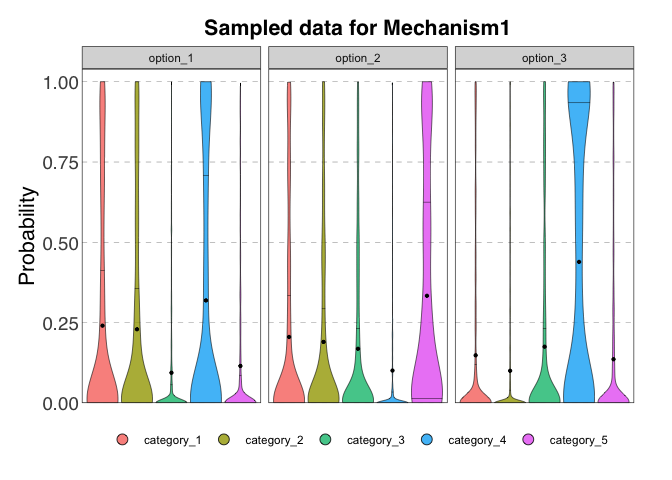
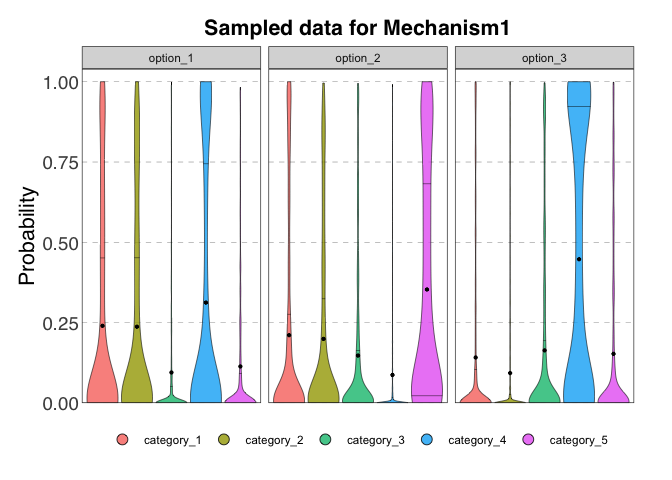
Update readme with truth and groups

diff --git a/README.md b/README.md
@@ -123,16 +123,39 @@ cont_get_data(my_elic_cont, round = 1)
 Plot raw data for variable 2 in round 1:
 
 ``` r
-plot(my_elic_cont,, round = 1, var = "var2")
+plot(my_elic_cont, round = 1, var = "var2")
 #> `height` was translated to `width`.
 ```
 
 <img src="man/figures/README-plot-raw-data-1.png" width="100%" />
 
+When the elicitation process is part of a workshop and is used for
+demonstration, it can be useful to show a truth argumenton the plot.
+This argument can be added as a list of estimates.
+
+``` r
+plot(my_elic_cont, round = 1, var = "var2",
+     truth = list(min = 10, max = 20, best = 15))
+#> `height` was translated to `width`.
+```
+
+<img src="man/figures/README-plot-truth-1.png" width="100%" />
+
+Estimates can also be plotted grouped across experts:
+
+``` r
+plot(my_elic_cont, round = 1, var = "var2",
+     truth = list(min = 10, max = 20, best = 15),
+     group = TRUE)
+#> `height` was translated to `width`.
+```
+
+<img src="man/figures/README-plot-group-1.png" width="100%" />
+
 Data can be sampled from the elicitation object:
 
 ``` r
-samp_cont <- cont_sample_data(my_elic_cont,, round = 2)
+samp_cont <- cont_sample_data(my_elic_cont, round = 2)
 #> ✔ Rescaled min and max for variable "var3".
 #> ✔ Data for "var1", "var2", and "var3" sampled successfully using the "basic" method.
 
@@ -140,16 +163,16 @@ samp_cont
 #> # A tibble: 18,000 × 3
 #>    id      var   value
 #>    <chr>   <chr> <dbl>
-#>  1 5ac97e0 var1     -4
+#>  1 5ac97e0 var1     -2
 #>  2 5ac97e0 var1     -2
-#>  3 5ac97e0 var1     -2
+#>  3 5ac97e0 var1      0
 #>  4 5ac97e0 var1      1
-#>  5 5ac97e0 var1     -2
-#>  6 5ac97e0 var1      1
+#>  5 5ac97e0 var1      1
+#>  6 5ac97e0 var1      0
 #>  7 5ac97e0 var1     -2
-#>  8 5ac97e0 var1     -2
-#>  9 5ac97e0 var1     -2
-#> 10 5ac97e0 var1     -4
+#>  8 5ac97e0 var1      1
+#>  9 5ac97e0 var1      1
+#> 10 5ac97e0 var1      1
 #> # ℹ 17,990 more rows
 ```
 
@@ -160,9 +183,9 @@ summary(samp_cont)
 #> # A tibble: 3 × 7
 #>   Var      Min     Q1 Median   Mean     Q3    Max
 #>   <chr>  <dbl>  <dbl>  <dbl>  <dbl>  <dbl>  <dbl>
-#> 1 var1  -4     -2     -2     -1.02   1      1    
-#> 2 var2  11.0   14.4   16.3   16.3   18.4   22.7  
-#> 3 var3   0.488  0.671  0.715  0.715  0.761  0.879
+#> 1 var1  -4     -2     -2     -1.04   1      1    
+#> 2 var2  11.0   14.4   16.3   16.3   18.3   22.6  
+#> 3 var3   0.452  0.671  0.716  0.715  0.762  0.872
 ```
 
 And plotted as violin plots:
@@ -180,6 +203,15 @@ plot(samp_cont, var = "var3", type = "density")
 ```
 
 <img src="man/figures/README-sample-plot-density-1.png" alt="Density plot of the sampled data for variable 3." width="100%" />
+
+And can be grouped across experts:
+
+``` r
+plot(samp_cont, var = "var3", type = "density",
+     group = TRUE)
+```
+
+<img src="man/figures/README-sample-plot-density-group-1.png" alt="Density plot of the sampled data for variable 3, grouped by experts." width="100%" />
 
 ### Elicitation of categorical variables
 
@@ -279,16 +311,16 @@ samp_cat
 #> # A tibble: 2,400 × 7
 #>    id      option   category_1 category_2 category_3 category_4 category_5
 #>    <chr>   <chr>         <dbl>      <dbl>      <dbl>      <dbl>      <dbl>
-#>  1 5ac97e0 option_1   1.00e-16          0    1.000     1.67e-36   1.64e- 4
-#>  2 5ac97e0 option_1   3.89e- 4          0    1.000     1.36e-24   5.03e-21
-#>  3 5ac97e0 option_1   2.16e- 3          0    0.998     4.24e-10   6.27e- 6
-#>  4 5ac97e0 option_1   1.23e-17          0    1         3.21e-26   4.27e-24
-#>  5 5ac97e0 option_1   1.94e- 3          0    0.979     4.63e-34   1.94e- 2
-#>  6 5ac97e0 option_1   9.99e- 1          0    0.00134   3.06e-20   1.54e-13
-#>  7 5ac97e0 option_1   9.35e- 1          0    0.0649    8.00e- 8   9.47e-12
-#>  8 5ac97e0 option_1   2.99e- 1          0    0.697     3.38e- 3   5.69e-14
-#>  9 5ac97e0 option_1   6.13e- 6          0    1.000     2.56e-16   1.07e- 4
-#> 10 5ac97e0 option_1   2.97e-10          0    0.990     8.48e-27   1.04e- 2
+#>  1 5ac97e0 option_1   1.34e-12          0     1.000    1.32e-18   1.54e-12
+#>  2 5ac97e0 option_1   3.88e- 1          0     0.612    1.89e- 9   2.98e- 9
+#>  3 5ac97e0 option_1   3.53e- 8          0     1.000    1.41e-43   2.56e-18
+#>  4 5ac97e0 option_1   5.66e- 4          0     0.999    5.26e-11   7.76e-13
+#>  5 5ac97e0 option_1   7.82e-27          0     1.000    1.51e-32   1.62e- 5
+#>  6 5ac97e0 option_1   1.13e- 3          0     0.999    1.89e-16   3.19e- 4
+#>  7 5ac97e0 option_1   1.24e- 3          0     0.999    1.43e-12   3.33e- 8
+#>  8 5ac97e0 option_1   9.42e- 1          0     0.0311   2.69e- 2   3.15e- 4
+#>  9 5ac97e0 option_1   3.77e- 2          0     0.962    5.16e- 4   6.58e- 9
+#> 10 5ac97e0 option_1   1.77e-15          0     0.999    9.17e- 5   5.47e- 4
 #> # ℹ 2,390 more rows
 
 samp_cat <- cat_sample_data(my_elic_cat,
@@ -299,16 +331,16 @@ samp_cat
 #> # A tibble: 1,800 × 7
 #>    id      option   category_1 category_2 category_3 category_4 category_5
 #>    <chr>   <chr>         <dbl>      <dbl>      <dbl>      <dbl>      <dbl>
-#>  1 5ac97e0 option_1   1.58e-26   3.05e- 2  7.15e-  2      0.898   1.57e- 6
-#>  2 5ac97e0 option_1   3.06e-14   7.37e-13  1.01e-  1      0.899   1.81e- 5
-#>  3 5ac97e0 option_1   1.61e-17   1.91e- 1  8.17e-  4      0.809   7.53e- 5
-#>  4 5ac97e0 option_1   7.72e- 2   1.12e- 2  7.96e-141      0.912   1.07e- 9
-#>  5 5ac97e0 option_1   5.41e-20   4.61e- 3  1.73e- 84      0.993   2.72e- 3
-#>  6 5ac97e0 option_1   6.23e- 3   2.10e-92  2.73e- 63      0.994   4.49e-11
-#>  7 5ac97e0 option_1   5.06e-11   1.15e-48  2.86e- 61      1.000   1.91e- 8
-#>  8 5ac97e0 option_1   9.05e- 6   5.67e-23  3.45e- 34      0.743   2.57e- 1
-#>  9 5ac97e0 option_1   4.06e-13   4.25e-23  4.54e- 90      0.982   1.81e- 2
-#> 10 5ac97e0 option_1   3.50e- 3   4.74e-46  4.38e- 32      0.997   2.82e- 7
+#>  1 5ac97e0 option_1   1.50e-16   2.11e-94  2.89e- 26      1.000   2.71e- 6
+#>  2 5ac97e0 option_1   4.28e- 9   4.41e-64  5.51e- 20      1.000   6.55e- 5
+#>  3 5ac97e0 option_1   2.77e- 9   5.40e- 4  4.16e- 70      0.999   1.18e-11
+#>  4 5ac97e0 option_1   4.72e-47   5.34e-26  3.95e-114      0.368   6.32e- 1
+#>  5 5ac97e0 option_1   2.35e- 7   3.36e- 3  4.58e- 88      0.995   1.92e- 3
+#>  6 5ac97e0 option_1   3.57e-81   2.76e-30  9.17e- 64      0.584   4.16e- 1
+#>  7 5ac97e0 option_1   5.58e- 6   2.02e- 3  5.46e- 17      0.750   2.48e- 1
+#>  8 5ac97e0 option_1   1.52e- 1   3.89e-43  2.66e- 78      0.831   1.65e- 2
+#>  9 5ac97e0 option_1   7.79e- 5   1.08e- 2  1.24e- 64      0.989   3.40e-17
+#> 10 5ac97e0 option_1   4.58e-29   1.33e-30  2.30e-  4      1.000   5.88e-25
 #> # ℹ 1,790 more rows
 ```
 
@@ -317,13 +349,13 @@ And the sample summarised:
 ``` r
 summary(samp_cat, option = "option_2")
 #> # A tibble: 5 × 7
-#>   Category         Min       Q1     Median  Mean     Q3   Max
-#>   <chr>          <dbl>    <dbl>      <dbl> <dbl>  <dbl> <dbl>
-#> 1 category_1 5.53e-287 6.26e-13 0.0100     0.206 0.335  0.998
-#> 2 category_2 7.71e- 26 4.87e- 4 0.0323     0.190 0.293  1.000
-#> 3 category_3 1.33e- 16 3.04e- 4 0.0177     0.169 0.232  0.999
-#> 4 category_4 0         0        0.00000516 0.101 0.0343 0.996
-#> 5 category_5 3.64e- 14 1.45e- 2 0.194      0.334 0.625  1.000
+#>   Category        Min       Q1     Median   Mean     Q3   Max
+#>   <chr>         <dbl>    <dbl>      <dbl>  <dbl>  <dbl> <dbl>
+#> 1 category_1 0        1.88e-13 0.0139     0.211  0.277  1.000
+#> 2 category_2 1.96e-24 5.72e- 4 0.0256     0.200  0.324  0.996
+#> 3 category_3 4.56e-33 2.08e- 4 0.0163     0.148  0.163  0.994
+#> 4 category_4 0        0        0.00000324 0.0876 0.0169 0.992
+#> 5 category_5 1.43e-15 2.26e- 2 0.199      0.353  0.682  1.000
 ```
 
 And plotted as violin plots:
